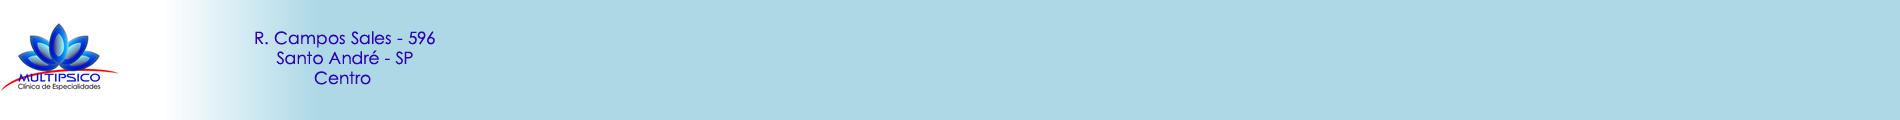
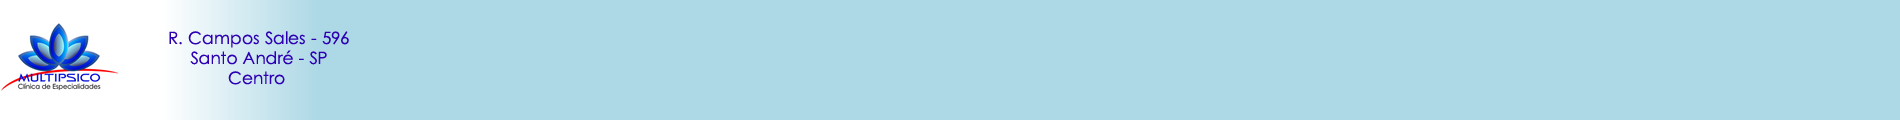
Deleted files and new imgages/Modified files

Changed region(s): [[0.0621, 0.25, 0.2484, 0.375], [0.0932, 0.425, 0.2174, 0.55], [0.1242, 0.6, 0.2174, 0.7]]

diff --git a/Web-Site-Multipsico/index.html b/Web-Site-Multipsico/index.html
@@ -1,6 +1,7 @@
 <!DOCTYPE html>
 <html lang="pt-br">
-  <link rel="shortcut icon" href="favicon/favicon.ico">
+  <!--ícone-->
+  <link rel="shortcut icon" href="fav-icon/favicon.ico">
   <head>
     <!-- Meta tags Obrigatórias -->
     <meta charset="utf-8">
@@ -8,7 +9,7 @@
       shrink-to-fit=no">
 
     <!--Link customizado-->
-    <link rel="stylesheet" type="text/css" href="css/estilo.css">
+    <link rel="stylesheet" type="text/css" href="css/style.css">
 
     <!-- Bootstrap CSS -->
     <link rel="stylesheet"
@@ -17,9 +18,40 @@
       crossorigin="anonymous">
     <title>Multipsico</title>
   </head>
-  <body>
-
-
+  <body id="home">
+    <!--Início topo-->
+    <div id="topo">
+      <!--Início navegação-->
+      <div id="navegacao">
+        <ul>
+          <li>
+            <a href="#">Home</a>
+          </li>
+          <li>
+            <a href="#">Serviços</a>
+          </li>
+          <li>
+            <a href="#">Convênios</a>
+          </li>
+          <li>
+            <a href="#">Agendamento</a>
+          </li>
+          <li>
+            <a href="#">Sobre</a>
+          </li>
+          <li>
+            <a href="#">Contato</a>
+          </li>
+        </ul>
+      </div><!--Fim navegação-->
+    </div><!--Fim topo-->
+    <!-------------------------------------------------------------------------->
+    <!--Início conteúdos-->
+    <div id="conteudo">
+      <div id="conteudo-principal">
+        Conteúdos
+      </div>
+    </div>
 
 
 

diff --git a/Web-Site-Multipsico/css/style.css b/Web-Site-Multipsico/css/style.css
@@ -1,0 +1,54 @@
+*{
+  font-family: "Trebuchet MS", Helvetica, sans-serif;
+  margin: 0;
+  padding: 0;
+}
+
+/*Corpo*/
+body{
+  background: url(../img/fundo.fw.png);
+}
+/* Topo da página*/
+#topo{
+  border-radius: 12px 12px 0 0;
+  margin-top: 20px;
+  margin-right: 20px;
+  margin-left: 20px;
+  height: 105px;
+  background: url(../img/download.fw.png) no-repeat;
+}
+
+#topo a{
+  line-height: 1.4em;
+  font-size: 1.4em;
+  text-decoration: none;
+}
+/*Barra de navedegação*/
+#navegacao ul{
+  margin-right: 30px;
+  margin-top: 3.2em;
+  width: 590px;
+  float: right;
+  list-style: none;
+}
+
+#navegacao ul a{
+  color: #000;
+  margin: 0.3em 1em;
+  float: left;
+}
+
+#navegacao ul a:hover{
+  color: rgba(138, 138, 138, 0.993);
+}
+
+/*Conteúdo principal*/
+
+#conteudo{
+  width: 225px;
+  background: #fff;
+  margin-top: 20px;
+  margin-left: 20px;
+  font-size: 16px;
+  color: #000;
+}
